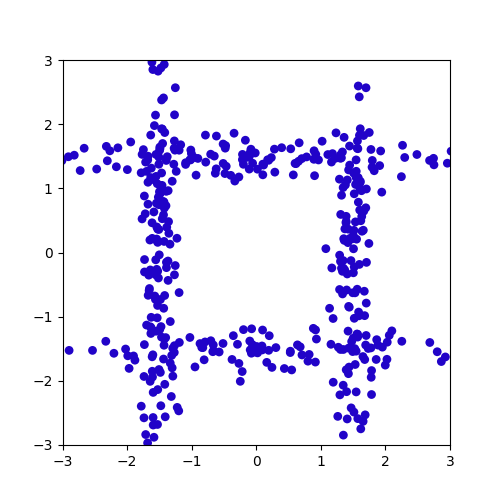
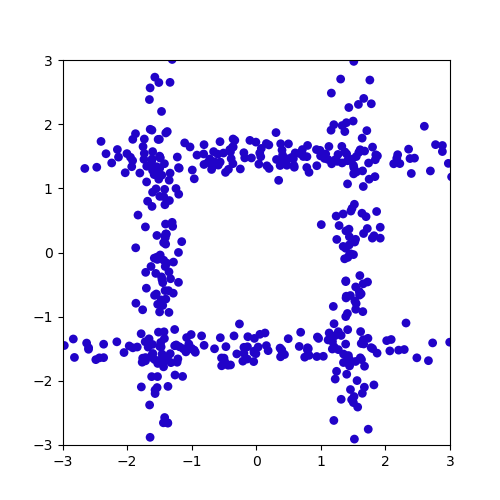
localize

Changed region(s): [[0.12, 0.12, 0.9, 0.9]]

diff --git a/demo/demo_triangle.py b/demo/demo_triangle.py
@@ -63,10 +63,10 @@ D_B = torch.nn.Sequential(
 )
 
 
-# G_AB.cuda()
-# G_BA.cuda()
-# D_A.cuda()
-# D_B.cuda()
+G_AB.cuda()
+G_BA.cuda()
+D_A.cuda()
+D_B.cuda()
 
 
 def reset_grad():
@@ -125,19 +125,19 @@ np.random.shuffle(toy_data)
 
 real_label = 1
 fake_label = 0
-# real_tensor = Variable(torch.FloatTensor(mb_size)).cuda()
-real_tensor = Variable(torch.FloatTensor(mb_size))
+real_tensor = Variable(torch.FloatTensor(mb_size)).cuda()
+# real_tensor = Variable(torch.FloatTensor(mb_size))
 _ = real_tensor.data.fill_(real_label)
 
-# paired_real_tensor = Variable(torch.FloatTensor(mb_size)).cuda()
-paired_real_tensor = Variable(torch.FloatTensor(mb_size))
+paired_real_tensor = Variable(torch.FloatTensor(mb_size)).cuda()
+# paired_real_tensor = Variable(torch.FloatTensor(mb_size))
 _ = paired_real_tensor.data.fill_(real_label)
 
-# fake_tensor = Variable(torch.FloatTensor(mb_size)).cuda()
-fake_tensor = Variable(torch.FloatTensor(mb_size))
+fake_tensor = Variable(torch.FloatTensor(mb_size)).cuda()
+# fake_tensor = Variable(torch.FloatTensor(mb_size))
 _ = fake_tensor.data.fill_(fake_label)
 
-for it in range(0, 1000):
+for it in range(0, 10000):
     print('iter = %d' % it)
 
     kf = get_minibatches_idx(data_nbr, mb_size)
@@ -146,24 +146,24 @@ for it in range(0, 1000):
         critic = n_critic
 
         x_n1 = np.random.normal(0, noise, (mb_size, x_dim))
-        # x_n1 = Variable(torch.from_numpy(x_n1).cuda())
-        x_n1 = Variable(torch.from_numpy(x_n1))
+        x_n1 = Variable(torch.from_numpy(x_n1).cuda())
+        # x_n1 = Variable(torch.from_numpy(x_n1))
         x_n1 = x_n1.float()
 
         x_n2 = np.random.normal(0, noise, (mb_size, x_dim))
-        # x_n2 = Variable(torch.from_numpy(x_n2).cuda())
-        x_n2 = Variable(torch.from_numpy(x_n2))
+        x_n2 = Variable(torch.from_numpy(x_n2).cuda())
+        # x_n2 = Variable(torch.from_numpy(x_n2))
         x_n2 = x_n2.float()
 
         x_A = toy_data[kf[i][1]][:, 0].reshape((-1, 1))
-        # x_A = Variable(torch.from_numpy(x_A).cuda())
-        x_A = Variable(torch.from_numpy(x_A))
+        x_A = Variable(torch.from_numpy(x_A).cuda())
+        # x_A = Variable(torch.from_numpy(x_A))
         x_A = x_A.float()
         x_An = torch.cat((x_n1, x_n2, x_A), 1)
 
         x_B = toy_data[kf[i][1]][:, 1].reshape((-1, 1))
-        # x_B = Variable(torch.from_numpy(x_B).cuda())
-        x_B = Variable(torch.from_numpy(x_B))
+        x_B = Variable(torch.from_numpy(x_B).cuda())
+        # x_B = Variable(torch.from_numpy(x_B))
         x_B = x_B.float()
         x_Bn = torch.cat((x_n1, x_n2, x_B), 1)
 
@@ -205,19 +205,20 @@ for it in range(0, 1000):
         l_gan_A = bce(D_A(x_fakeAB), real_tensor) + bce(D_B(x_fakeAB), fake_tensor)
         l_gan_B = bce(D_A(x_fakeBA), real_tensor) + bce(D_B(x_fakeBA), real_tensor)
 
-    l_g = l_gan_A + l_gan_B
-    l_g.backward()
-    G_solver.step()
+        l_g = l_gan_A + l_gan_B
+        l_g.backward()
+        G_solver.step()
 
-    # Housekeeping - reset gradient
-    reset_grad()
+        # Housekeeping - reset gradient
+        reset_grad()
 
-# Print and plot every now and then
-print('Iter-{}; D_loss: {}; Gen_loss: {}'
-      .format(it, l_d.data[0], l_g.data[0]))
-sample_x_real = x_real.cpu().data.numpy()
-plot_z(sample_x_real, -3, 3, -3, 3, './triangleGAN', 'real_samples')
-sample_x_AB = x_fakeAB.cpu().data.numpy()
-sample_x_BA = x_fakeBA.cpu().data.numpy()
-plot_z(sample_x_AB, -3, 3, -3, 3, './triangleGAN', 'fake_AB_in_' + str(it))
-plot_z(sample_x_BA, -3, 3, -3, 3, './triangleGAN', 'fake_BA_in_' + str(it))
+    if it % 500 == 0:
+        # Print and plot every now and then
+        print('Iter-{}; D_loss: {}; Gen_loss: {}'
+              .format(it, l_d.data[0], l_g.data[0]))
+        sample_x_real = x_real.cpu().data.numpy()
+        plot_z(sample_x_real, -3, 3, -3, 3, './triangleGAN', 'real_samples')
+        sample_x_AB = x_fakeAB.cpu().data.numpy()
+        sample_x_BA = x_fakeBA.cpu().data.numpy()
+        plot_z(sample_x_AB, -3, 3, -3, 3, './triangleGAN', 'fake_AB_in_' + str(it))
+        plot_z(sample_x_BA, -3, 3, -3, 3, './triangleGAN', 'fake_BA_in_' + str(it))

diff --git a/src/DomainTransfer_classification/celebA/triGan_celebA.py b/src/DomainTransfer_classification/celebA/triGan_celebA.py
@@ -15,16 +15,16 @@ from model_fancyCelebA_utils import encoder1, encoder2, SN_discriminator
 import scipy.io as sio
 import h5py
 import time
-import cPickle
+import pickle
 
 """ parameters """
 n_epochs = 10
 dataset_size = 50000
-mb_size = 64
+mb_size = 16
 # X_dim = ()
 lr = 1e-4
-Z_dim = 100
-Y_dim = 40
+Z_dim = 100 # dim of noise
+Y_dim = 40  # number of attributes
 
 
 #####################################
@@ -33,10 +33,11 @@ def log(x):
 
 
 """ data pre-process """
-hdf5_root = '/home/lqchen/work/pixel-cnn-3/data/CelebA/'
+hdf5_root = '/home/memray/Data/celeba/'
+# hdf5_root = '/home/lqchen/work/pixel-cnn-3/data/CelebA/'
 f = h5py.File('%sceleba_64.hdf5' % hdf5_root)
 Images = np.float32(f['features']) / 127.5 - 1.
-feature_data = scipy.io.loadmat('/home/lqchen/work/triGan/celebA/celebA_tag_feats.mat')
+feature_data = scipy.io.loadmat('%s/celebA_tag_feats.mat' % hdf5_root)
 
 tag_feats_all = np.float32(feature_data['feats'])
 tag_feats = tag_feats_all[:162770]
@@ -46,7 +47,7 @@ sio.savemat('./evaluation/10/tag_feats_val.mat', {'feats_val': tag_feats_val})
 sio.savemat('./evaluation/10/tag_feats_test.mat', {'feats_test': tag_feats_test})
 del feature_data, tag_feats_all
 
-Images_all = np.transpose(Images, [0, 2, 3, 1])
+Images_all = np.transpose(Images, [0, 2, 3, 1]) # make it [n_images, x, y, n_channel]
 Images = Images_all[:162770]
 Images_val = Images_all[162770: 182637]
 Images_test = Images_all[182637:]
@@ -58,7 +59,7 @@ num_test = Images_test.shape[0]
 
 """ tag name"""
 tag_names = []
-with open('./celebA_tag_names.txt', 'rb') as f:
+with open('./celebA_tag_names.txt', 'r') as f:
     for line in f:
         tag_names = line.strip().split(",")
 
@@ -134,11 +135,11 @@ def data_network_2(x, y, reuse=None):
 """ Construct model and training ops """
 # tf.reset_default_graph()
 
-X_p = tf.placeholder(tf.float32, shape=[mb_size, 64, 64, 3])
-y_p = tf.placeholder(tf.float32, shape=[mb_size, Y_dim])
-X_u = tf.placeholder(tf.float32, shape=[mb_size, 64, 64, 3])
-y_u = tf.placeholder(tf.float32, shape=[mb_size, Y_dim])
-z = tf.placeholder(tf.float32, shape=[mb_size, Z_dim])
+X_p = tf.placeholder(tf.float32, shape=[mb_size, 64, 64, 3]) # Real image X
+y_p = tf.placeholder(tf.float32, shape=[mb_size, Y_dim])     # Real attribute y
+X_u = tf.placeholder(tf.float32, shape=[mb_size, 64, 64, 3]) # Fake image X_tilde
+y_u = tf.placeholder(tf.float32, shape=[mb_size, Y_dim])     # Fake attribute y_tilde
+z = tf.placeholder(tf.float32, shape=[mb_size, Z_dim])       # noise
 
 # Discriminator A
 y_gen = generative_X2Y(X_u)

diff --git a/demo/demo_triple-s.py b/demo/demo_triple-s.py
@@ -78,7 +78,7 @@ def get_minibatches_idx(n, minibatch_size, shuffle=True):
         # Make a minibatch out of what is left
         minibatches.append(idx_list[minibatch_start:])
 
-    return zip(range(len(minibatches)), minibatches)
+    return list(zip(range(len(minibatches)), minibatches))
 
 
 bce = torch.nn.BCELoss().cuda()
@@ -119,9 +119,11 @@ _ = paired_real_tensor.data.fill_(real_label)
 fake_tensor = Variable(torch.FloatTensor(mb_size)).cuda()
 _ = fake_tensor.data.fill_(fake_label)
 
-for it in range(0, 1000):
+for it in range(0, 10000):
+    print('iter = %d' % it)
+
     kf = get_minibatches_idx(data_nbr, mb_size)
-    for i in range(data_nbr / mb_size):
+    for i in range(data_nbr // mb_size):
 
         critic = n_critic
 
@@ -182,12 +184,13 @@ for it in range(0, 1000):
         # Housekeeping - reset gradient
         reset_grad()
 
-    # Print and plot every now and then
-    print('Iter-{}; D_loss: {}; Gen_loss: {}'
-          .format(it, l_d.data[0], l_g.data[0]))
-    sample_x_real = x_real.cpu().data.numpy()
-    plot_z(sample_x_real, -3, 3, -3, 3, './tripleGAN', 'real_samples')
-    sample_x_AB = x_fakeAB.cpu().data.numpy()
-    sample_x_BA = x_fakeBA.cpu().data.numpy()
-    plot_z(sample_x_AB, -3, 3, -3, 3, './tripleGAN', 'fake_AB_in_' + str(it))
-    plot_z(sample_x_BA, -3, 3, -3, 3, './tripleGAN', 'fake_BA_in_' + str(it))
+    if it % 500 == 0:
+        # Print and plot every now and then
+        print('Iter-{}; D_loss: {}; Gen_loss: {}'
+              .format(it, l_d.data[0], l_g.data[0]))
+        sample_x_real = x_real.cpu().data.numpy()
+        plot_z(sample_x_real, -3, 3, -3, 3, './tripleGAN', 'real_samples')
+        sample_x_AB = x_fakeAB.cpu().data.numpy()
+        sample_x_BA = x_fakeBA.cpu().data.numpy()
+        plot_z(sample_x_AB, -3, 3, -3, 3, './tripleGAN', 'fake_AB_in_' + str(it))
+        plot_z(sample_x_BA, -3, 3, -3, 3, './tripleGAN', 'fake_BA_in_' + str(it))

diff --git a/src/DomainTransfer_classification/coco/triGan_coco.py b/src/DomainTransfer_classification/coco/triGan_coco.py
@@ -11,11 +11,11 @@ import tensorflow as tf
 import matplotlib.pyplot as plt
 import matplotlib.gridspec as gridspec
 # from model_coco_utils import encoder1, encoder2, discriminator
-from model_fancyCOCO_utils import encoder1, encoder2, discriminator
+from .model_fancyCOCO_utils import encoder1, encoder2, discriminator
 import scipy.io as sio
 import h5py
-import cPickle
-from eval import diff
+import pickle
+from .eval import diff
 
 """ parameters """
 dataset_size = 50000
@@ -35,11 +35,12 @@ def log(x):
 
 """ Create dataset """
 img_size = 64
-hdf5_root = '/media/lqchen/MyFiles/Data/coco/'
+hdf5_root = '/home/memray/Data/coco/output/coco/'
 f = h5py.File('%scoco_img_%d.h5' % (hdf5_root, img_size))
 Images = np.float32(f['images']) / 127.5 - 1.
+feature_data = sio.loadmat('/home/memray/Data/coco/zhegan/tag_feats.mat')
 # feature_data = scipy.io.loadmat('/media/lqchen/MyFiles/Data/coco/coco_tag_feats.mat')
-feature_data = h5py.File('/media/lqchen/MyFiles/Data/coco/coco_tag_feat_binary.hdf5')
+# feature_data = h5py.File('/media/lqchen/MyFiles/Data/coco/coco_tag_feat_binary.hdf5')
 tag_feats = np.float32(feature_data['feats'])
 Images = np.transpose(Images, [0, 2, 3, 1])
 del feature_data

diff --git a/demo/helpers.py b/demo/helpers.py
@@ -97,7 +97,7 @@ def plot_z(z_batch, a, b, c, d, dir=None, filename="z"):
               "#6a6551"]
     pylab.clf()
     for n in range(z_batch.shape[0]):
-        print(np.floor_divide(n,(z_batch.shape[0]/10)))
+        # print(np.floor_divide(n,(z_batch.shape[0]/10)))
         # result = pylab.scatter(z_batch[n, 0], z_batch[n, 1], c=colors[np.floor_divide(n,1+(np.floor_divide(z_batch.shape[0],10)))], s=40, marker="o", edgecolors='none')
         result = pylab.scatter(z_batch[n, 0], z_batch[n, 1], c=colors[0], s=40, marker="o", edgecolors='none')
     pylab.xlabel("")

diff --git a/src/DomainTransfer_classification/celebA/main_forPython3.py b/src/DomainTransfer_classification/celebA/main_forPython3.py
@@ -12,7 +12,7 @@ import scipy.ndimage.interpolation
 import matplotlib.pyplot as plt
 import matplotlib.gridspec as gridspec
 # from model_py35 import encoder1, encoder2, discriminator, SN_discriminator
-from model_fancyCelebA_utils import encoder1, encoder2, SN_discriminator
+from src.DomainTransfer_classification.celebA.model_fancyCelebA_utils import encoder1, encoder2, SN_discriminator
 import h5py
 
 # import cPickle

diff --git a/src/DomainTransfer_classification/coco/model_fancyCOCO_utils.py b/src/DomainTransfer_classification/coco/model_fancyCOCO_utils.py
@@ -1,6 +1,6 @@
 import tensorflow as tf
-import tensorlayer as tl
-from tensorlayer.layers import *
+from . import tensorlayer as tl
+from .tensorlayer.layers import *
 
 batch_size = 64
 
